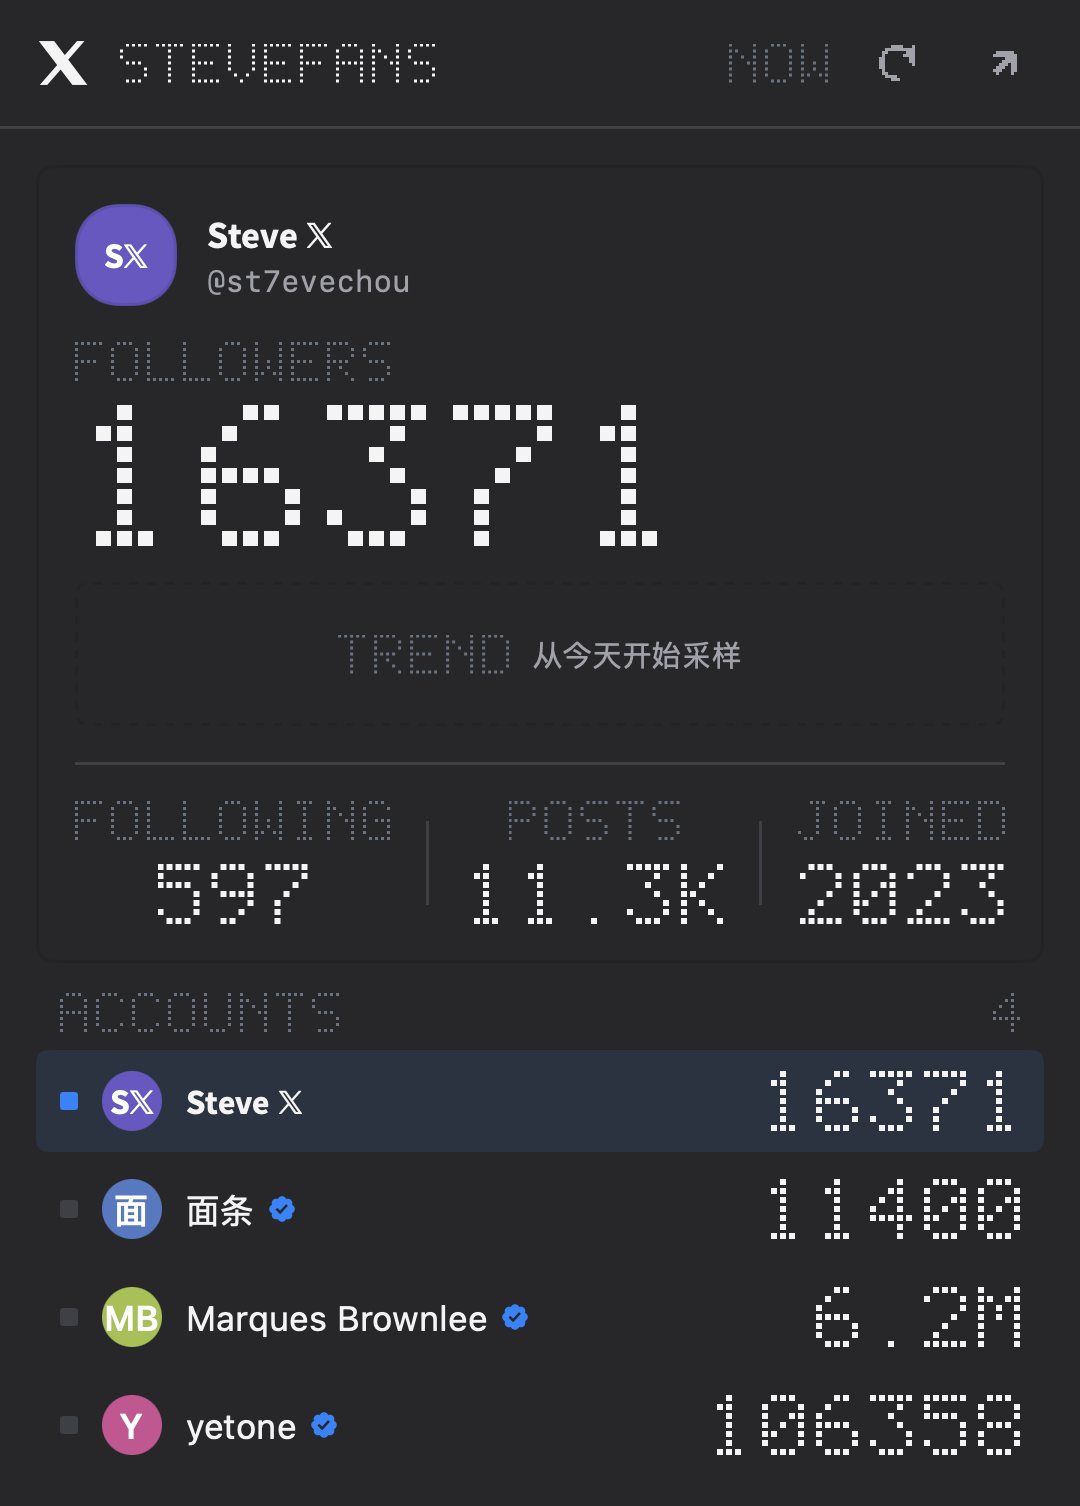
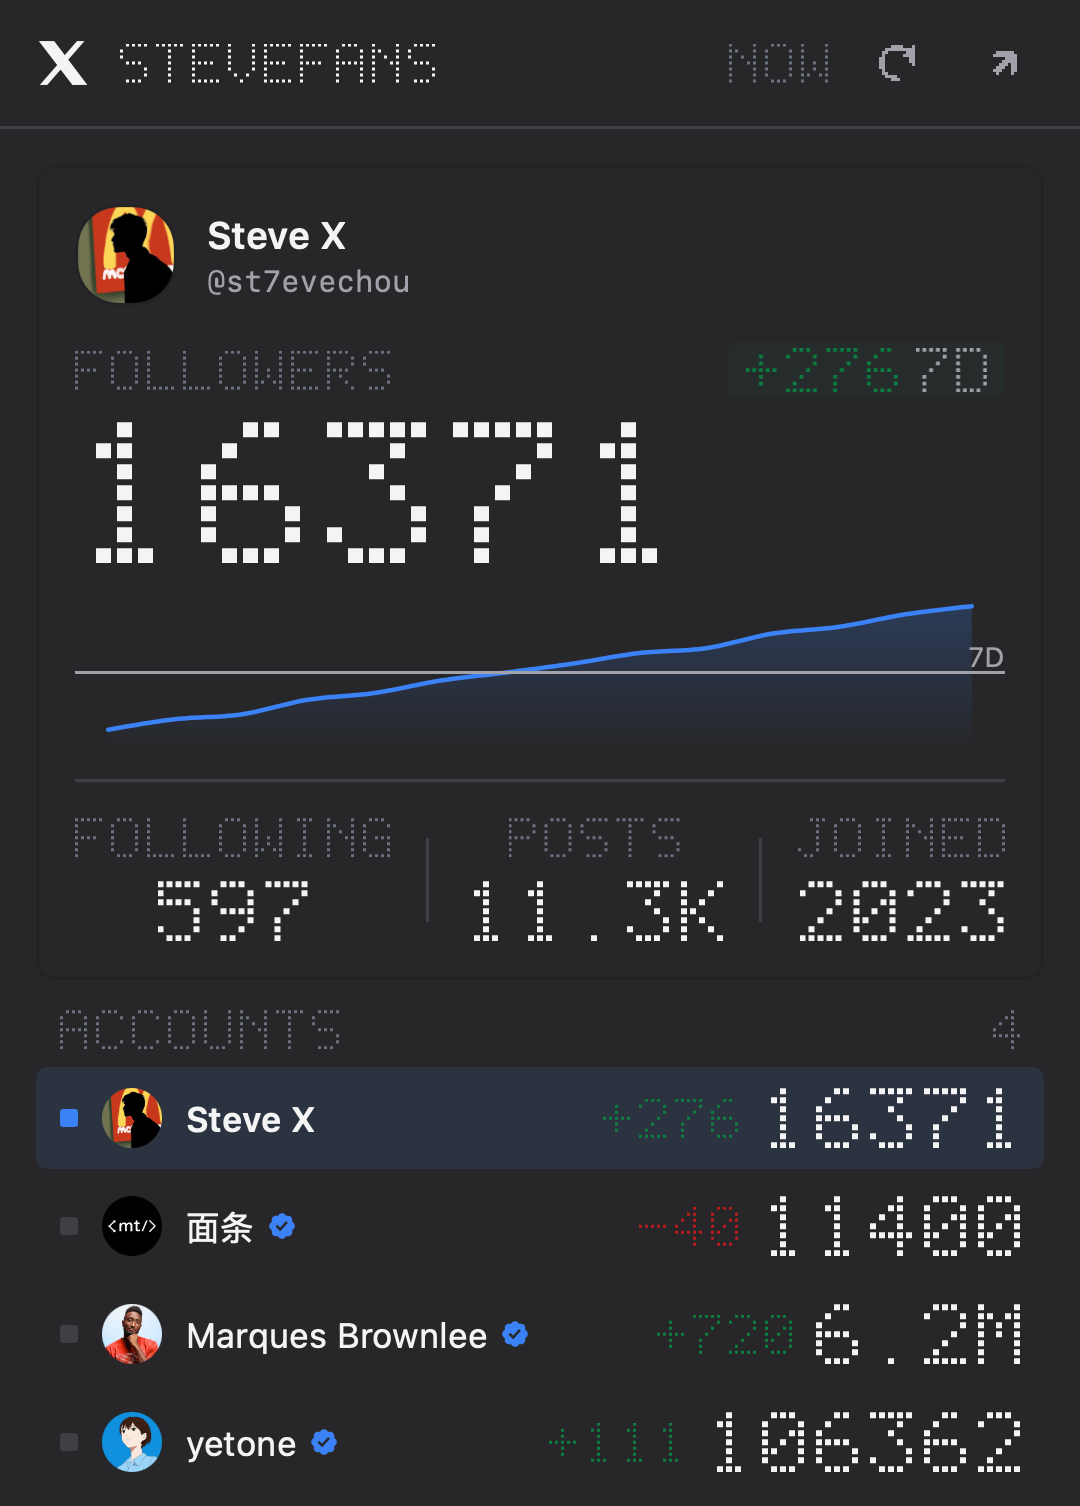
docs(readme): new screenshots with the trend chart visible
截图改用夹具模式生成：固定时钟、桩 API 响应和缓存的头像，所以可复现，
不再受 FxTwitter 限流影响。样本趋势数据让面积图、7D 起算线和涨跌都显示出来。

diff --git a/README.md b/README.md
@@ -12,7 +12,7 @@
 
 ## 预览
 
-截图取自真实账号数据；本机趋势需首次打开看板后逐日积累，截图里尚未攒够两天，所以趋势区显示空态。
+截图里的账号是真实的，趋势和涨跌用的是样本数据。实际使用时，面积图需要开板后逐日积累两天以上采样才会出现，之前显示虚线空态。
 
 | 浅色 | 深色 |
 | :---: | :---: |
@@ -133,7 +133,7 @@ jq -n --rawfile source stevefans.bar '{source:$source,tree:true,scheduled:true}'
 
 A [Metrix.Bar](https://metrix.bar) dashboard for X follower counts: a 5×7 dot-matrix readout for the selected account, a one-line-per-account list, a 7-day delta and a 14-day area chart.
 
-Screenshots use real account data; the local trend needs two daily samples before the chart appears, so they show the empty state.
+The accounts in these screenshots are real; the trend and deltas are sample data. In normal use the chart needs two daily samples before it appears, showing a dashed placeholder until then.
 
 - **Readout + list** — the card on top shows the selected account's avatar, name, badge, dot-matrix follower count (hover for the exact figure), 7-day delta, 14-day chart and FOLLOWING / POSTS / JOINED. Every tracked account gets one 34 DIP row with its count and delta.
 - **Switching accounts** — click a row to move it into the readout, double-click to open it on X; the choice persists in `localStorage`. The menu bar always shows the first account.
